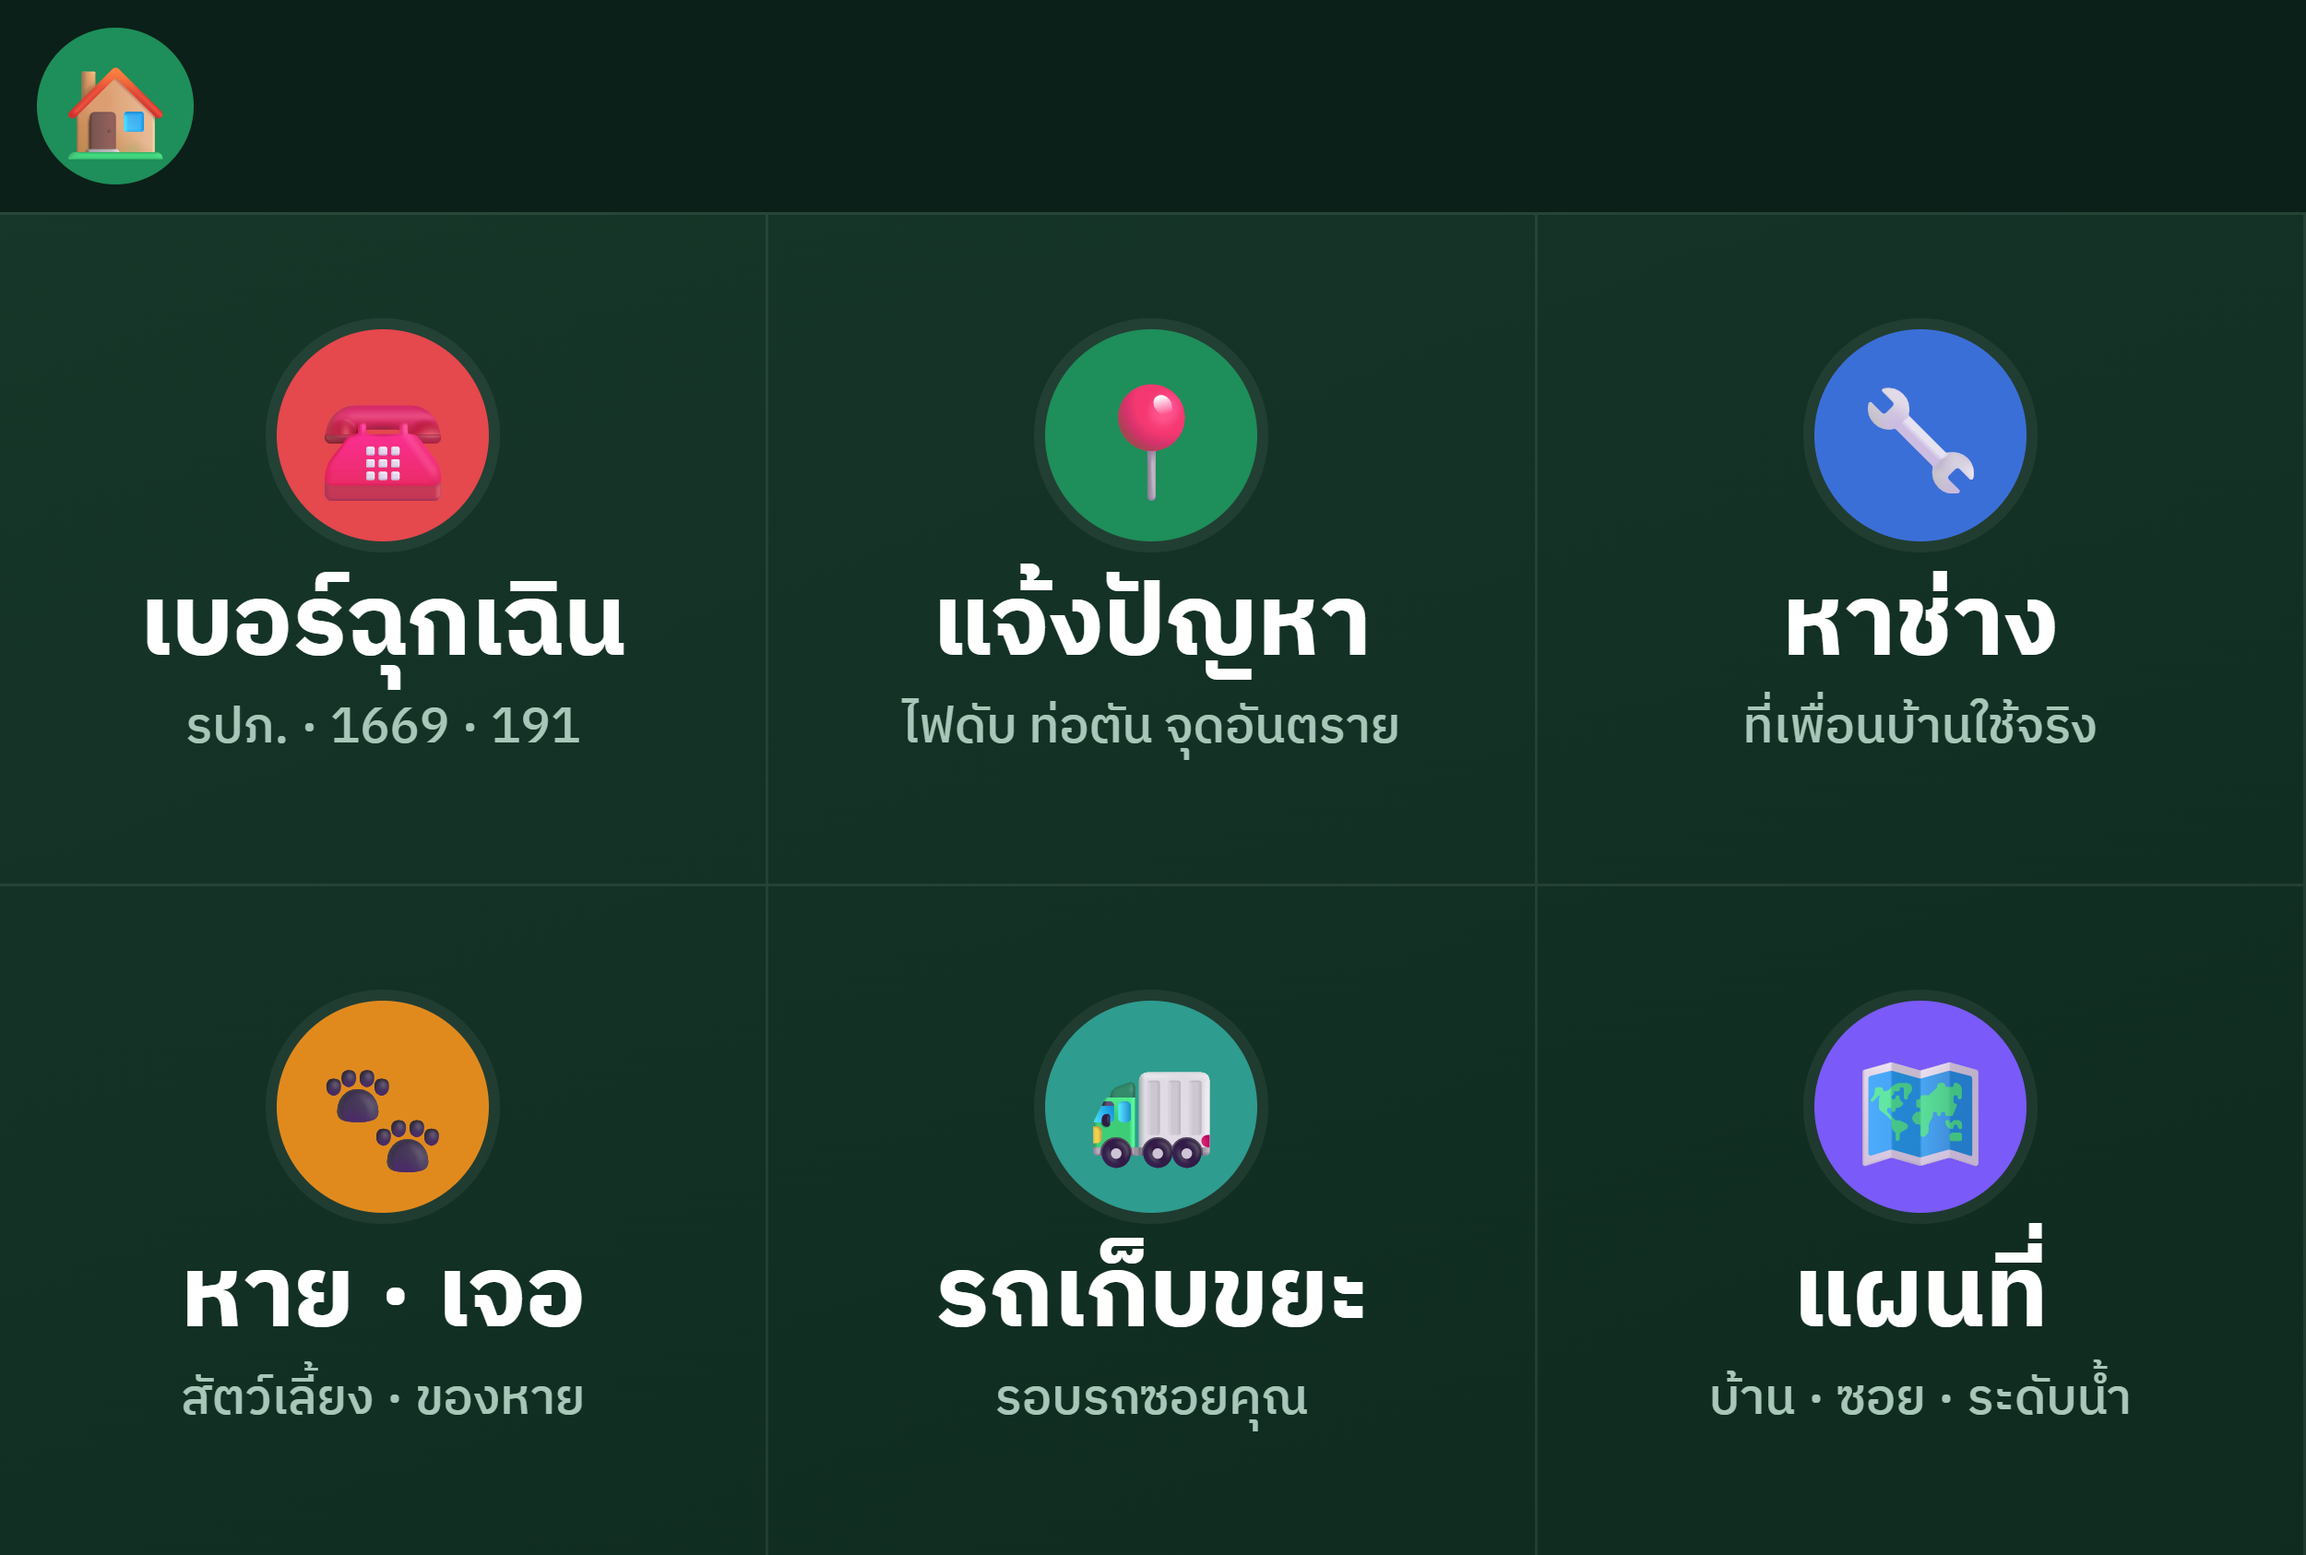
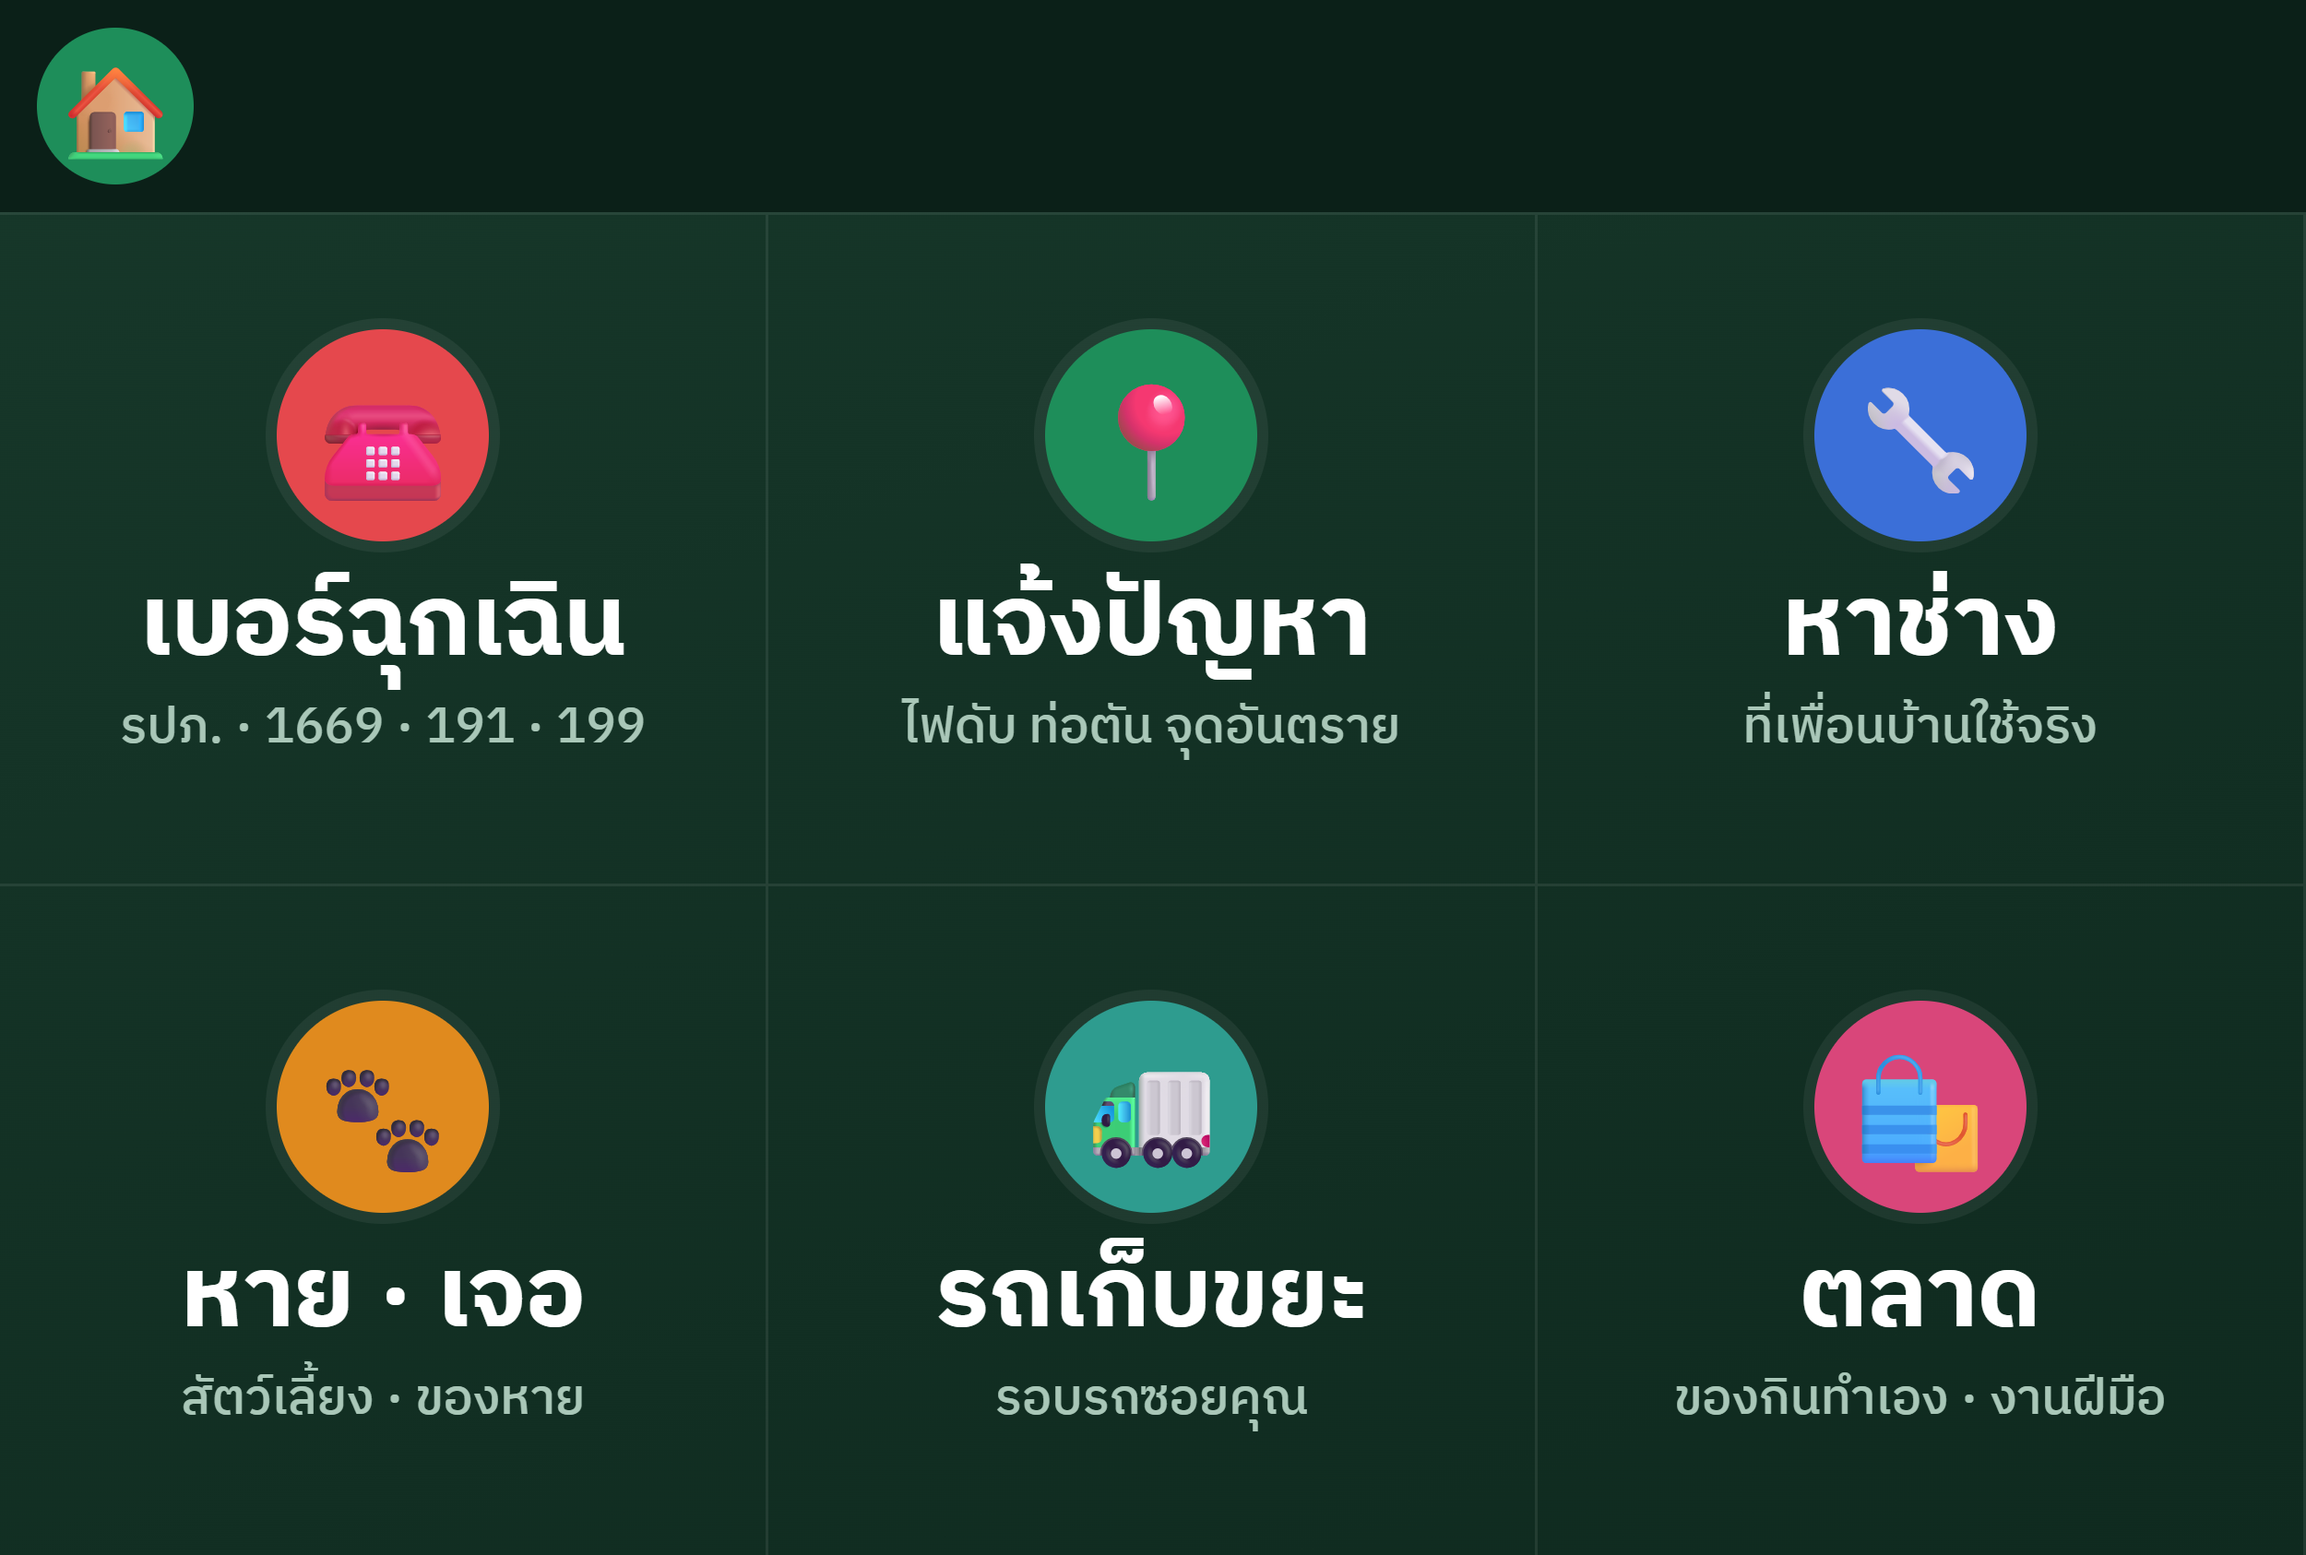
Market tile on the LINE menu (base.png 'ตลาด', 199 on the emergency tile), per-house menus versioned and redrawn on the next message; after-flood checklist off the more-links

Changed region(s): [[0.78, 0.6477, 0.9048, 0.8636], [0.0624, 0.4318, 0.2808, 0.4935], [0.7176, 0.8636, 0.936, 0.9253]]

diff --git a/frontend/src/RepairApp.js b/frontend/src/RepairApp.js
@@ -915,8 +915,9 @@ export default function RepairApp() {
                 )}
               </div>
 
-              <div className="mt-5 grid grid-cols-3 gap-2" aria-label="เรื่องอื่นในหมู่บ้าน">
-                {Object.entries(MORE_TABS).map(([k, [icon, text]]) => (
+              <div className="mt-5 grid grid-cols-2 gap-2" aria-label="เรื่องอื่นในหมู่บ้าน">
+                {/* 15 Oct: the after-flood checklist is off the list (still reachable at #guide) */}
+                {Object.entries(MORE_TABS).filter(([k]) => k !== "guide").map(([k, [icon, text]]) => (
                   <button
                     key={k}
                     onClick={() => showTab(k)}

diff --git a/backend/line_bot.py b/backend/line_bot.py
@@ -97,6 +97,7 @@ def now():
 # ---------- per-house rich menu: the village menu + a strip on top "🏠 4/917 · ซอย 16 · รถขยะ จ.·พฤ." ----------
 # Text pieces are pre-rendered (tools/line_menu_assets.py) because the server has no Thai font; we only paste them.
 MENU_DIR = Path(__file__).parent / "data" / "line_menu"
+MENU_VER = "v2"  # bump when base.png / the tiles change, so every house gets a freshly drawn menu
 DAY_ABBR = ["จ.", "อ.", "พ.", "พฤ.", "ศ.", "ส.", "อา."]
 _glyphs = {}
 
@@ -328,7 +329,7 @@ def build_router(db, require_admin, audit, claim_media, locate_house, norm_house
         Linking a menu to a user is not a message, so it costs nothing; LINE allows 1000 menus per channel."""
         c = await creds()
         _, days, _ = await next_waste(soi)
-        key = f"{house}|{soi}|{days or ''}"
+        key = f"{MENU_VER}|{house}|{soi}|{days or ''}"
         m = await db.line_menus.find_one({"key": key})
         if not m:
             img = await asyncio.to_thread(menu_image, house, soi, days, thai_days)
@@ -356,7 +357,7 @@ def build_router(db, require_admin, audit, claim_media, locate_house, norm_house
             code, r = await asyncio.to_thread(call, "POST", f"{API}/user/{user}/richmenu/{m['menu_id']}", c["token"])
             if code != 200:
                 raise RuntimeError(f"richmenu link {code} {r!r}"[:300])
-        await db.line_users.update_one({"user": user}, {"$set": {"menu_id": m["menu_id"]}})
+        await db.line_users.update_one({"user": user}, {"$set": {"menu_id": m["menu_id"], "menu_ver": MENU_VER}})
 
     async def clear_menu(user: str):
         c = await creds()
@@ -842,6 +843,12 @@ def build_router(db, require_admin, audit, claim_media, locate_house, norm_house
             return
         out: list = []
         try:
+            home = await home_of(user)
+            if home and home.get("menu_ver") != MENU_VER and home.get("soi"):  # an older menu image: redraw it quietly
+                try:
+                    await set_menu(user, home["house"], home["soi"])
+                except Exception as e:
+                    await db.line_log.insert_one({"at": now(), "error": f"menu refresh: {type(e).__name__}: {e}"[:400]})
             if ev["type"] == "message":
                 m = ev["message"]
                 if m["type"] == "text":
